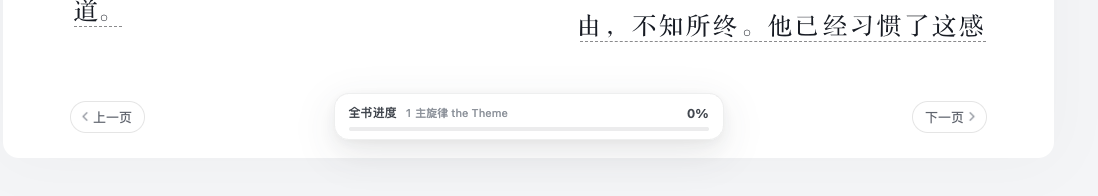
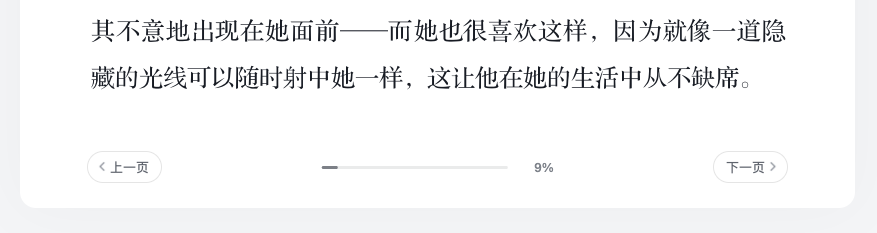
feat: 极简化阅读进度显示

diff --git a/contents/weread-progress.css b/contents/weread-progress.css
@@ -1,31 +1,25 @@
 .wrp-root {
-  --wrp-surface: rgba(255, 255, 255, 0.82);
-  --wrp-border: rgba(28, 35, 43, 0.09);
-  --wrp-text: #202832;
-  --wrp-muted: #7c858f;
-  --wrp-track: rgba(32, 40, 50, 0.1);
+  --wrp-text: #606873;
+  --wrp-track: rgba(48, 56, 66, 0.13);
   --wrp-accent: #5d646e;
 
   position: fixed;
   z-index: 2147483646;
   left: 50%;
   bottom: var(--wrp-bottom, 18px);
-  display: block;
-  width: clamp(270px, 30vw, 390px);
-  min-height: 47px;
+  display: flex;
+  align-items: center;
+  gap: 10px;
+  width: clamp(210px, 22vw, 300px);
+  min-height: 28px;
   box-sizing: border-box;
-  padding: 4px 14px 11px;
-  overflow: hidden;
+  padding: 0;
+  overflow: visible;
   color: var(--wrp-text);
-  background: var(--wrp-surface);
-  border: 1px solid var(--wrp-border);
-  border-radius: 15px;
-  box-shadow:
-    0 12px 34px rgba(25, 31, 39, 0.13),
-    0 2px 8px rgba(25, 31, 39, 0.05),
-    inset 0 1px 0 rgba(255, 255, 255, 0.45);
-  backdrop-filter: blur(18px) saturate(145%);
-  -webkit-backdrop-filter: blur(18px) saturate(145%);
+  background: transparent;
+  border: 0;
+  border-radius: 0;
+  box-shadow: none;
   appearance: none;
   -webkit-appearance: none;
   outline: none;
@@ -44,73 +38,36 @@
   transition:
     bottom 180ms ease-out,
     opacity 220ms ease,
-    transform 280ms cubic-bezier(0.2, 0.8, 0.2, 1),
-    box-shadow 220ms ease,
-    background-color 220ms ease;
+    transform 280ms cubic-bezier(0.2, 0.8, 0.2, 1);
 }
 
 .wrp-root[data-position-ready="true"] {
   visibility: visible;
   pointer-events: auto;
-  opacity: 0.88;
+  opacity: 0.82;
   transform: translateX(-50%);
 }
 
 .wrp-root[data-position-ready="true"]:hover,
 .wrp-root[data-position-ready="true"]:focus-visible {
   opacity: 1;
-  transform: translateX(-50%) translateY(-2px);
-  box-shadow:
-    0 16px 42px rgba(25, 31, 39, 0.17),
-    0 3px 10px rgba(25, 31, 39, 0.07),
-    inset 0 1px 0 rgba(255, 255, 255, 0.5);
-}
-
-.wrp-topline {
-  display: flex;
-  align-items: center;
-  min-width: 0;
-  height: 20px;
-  line-height: 20px;
-}
-
-.wrp-label {
-  flex: 0 0 auto;
-  margin-right: 8px;
-  color: var(--wrp-text);
-  font-size: 12px;
-  font-weight: 620;
-  letter-spacing: 0.01em;
-}
-
-.wrp-chapter {
-  min-width: 0;
-  flex: 1 1 auto;
-  overflow: hidden;
-  color: var(--wrp-muted);
-  font-size: 11px;
-  font-weight: 450;
-  white-space: nowrap;
-  text-overflow: ellipsis;
+  transform: translateX(-50%) translateY(-1px);
 }
 
 .wrp-value {
   flex: 0 0 auto;
-  min-width: 42px;
-  margin-left: 10px;
+  min-width: 36px;
   color: var(--wrp-text);
-  font-size: 13px;
-  font-weight: 680;
+  font-size: 12px;
+  font-weight: 620;
   letter-spacing: -0.01em;
   text-align: right;
 }
 
 .wrp-track {
-  position: absolute;
-  right: 14px;
-  bottom: 8px;
-  left: 14px;
-  height: 4px;
+  flex: 1 1 auto;
+  min-width: 0;
+  height: 3px;
   overflow: hidden;
   background: var(--wrp-track);
   border-radius: 999px;
@@ -122,26 +79,18 @@
   height: 100%;
   background: var(--wrp-accent);
   border-radius: inherit;
-  box-shadow: 0 0 7px rgba(93, 100, 110, 0.22);
   transition: width 420ms cubic-bezier(0.2, 0.8, 0.2, 1);
 }
 
 .wrp-root[data-theme="dark"] {
-  --wrp-surface: rgba(31, 35, 41, 0.82);
-  --wrp-border: rgba(255, 255, 255, 0.1);
-  --wrp-text: rgba(255, 255, 255, 0.92);
-  --wrp-muted: rgba(255, 255, 255, 0.53);
-  --wrp-track: rgba(255, 255, 255, 0.12);
-  --wrp-accent: #858c96;
-  box-shadow:
-    0 14px 38px rgba(0, 0, 0, 0.32),
-    0 2px 8px rgba(0, 0, 0, 0.18),
-    inset 0 1px 0 rgba(255, 255, 255, 0.06);
+  --wrp-text: rgba(255, 255, 255, 0.7);
+  --wrp-track: rgba(255, 255, 255, 0.14);
+  --wrp-accent: rgba(255, 255, 255, 0.66);
 }
 
 @media (max-width: 700px) {
   .wrp-root {
-    width: min(84vw, 340px);
+    width: min(72vw, 280px);
   }
 }
 

diff --git a/contents/weread-progress.tsx b/contents/weread-progress.tsx
@@ -17,7 +17,6 @@ export const getStyle: PlasmoGetStyle = () => {
 
 type ReaderState = {
   progress: number
-  chapter: string
   dark: boolean
 }
 
@@ -64,17 +63,6 @@ function readProgress(): number | null {
   }
 
   return null
-}
-
-function readChapterTitle(): string {
-  const selectedTitle = document.querySelector(
-    ".readerCatalog_list_item_selected .readerCatalog_list_item_title_text"
-  )?.textContent
-  const headerTitle = document.querySelector(
-    ".renderTargetPageInfo_header_chapterTitle"
-  )?.textContent
-
-  return (selectedTitle || headerTitle || "当前章节").trim()
 }
 
 function readDarkTheme(): boolean {
@@ -139,14 +127,12 @@ function ProgressOverlay() {
     if (progress !== null) {
       const nextState = {
         progress,
-        chapter: readChapterTitle(),
         dark: readDarkTheme()
       }
       setReader((current) => {
         if (
           current &&
           current.progress === nextState.progress &&
-          current.chapter === nextState.chapter &&
           current.dark === nextState.dark
         ) {
           return current
@@ -235,17 +221,13 @@ function ProgressOverlay() {
       data-theme={reader.dark ? "dark" : "light"}
       data-position-ready={bottom === null ? "false" : "true"}
       style={style}
-      title={`${reader.chapter} · 已读 ${displayValue}%（点击打开目录）`}
-      aria-label={`全书阅读进度 ${displayValue}%，${reader.chapter}，点击打开目录`}
+      title={`全书进度 ${displayValue}%（点击打开目录）`}
+      aria-label={`全书阅读进度 ${displayValue}%，点击打开目录`}
       onClick={openCatalog}>
-      <span className="wrp-topline">
-        <span className="wrp-label">全书进度</span>
-        <span className="wrp-chapter">{reader.chapter}</span>
-        <strong className="wrp-value">{displayValue}%</strong>
-      </span>
       <span className="wrp-track" aria-hidden="true">
         <span className="wrp-fill" />
       </span>
+      <strong className="wrp-value">{displayValue}%</strong>
     </button>
   )
 }

diff --git a/README.md b/README.md
@@ -4,7 +4,7 @@
 [![Manifest V3](https://img.shields.io/badge/Manifest-V3-5d646e?style=flat-square)](https://developer.chrome.com/docs/extensions/develop/migrate/what-is-mv3)
 [![License: CC BY-NC 4.0](https://img.shields.io/badge/License-CC_BY--NC_4.0-5d646e?style=flat-square)](LICENSE)
 
-在微信读书网页版的“上一页 / 下一页”按钮之间，显示当前章节和真实的全书阅读进度。无需打开目录，也不根据页码猜测进度。
+在微信读书网页版的“上一页 / 下一页”按钮之间，以一条极简进度线显示真实的全书阅读进度。无需打开目录，也不根据页码猜测进度。
 
 这是一个基于 [Plasmo](https://www.plasmo.com/) 的 Manifest V3 浏览器扩展，推荐用于 Arc，也适用于 Chrome、Edge、Brave 等 Chromium 浏览器。
 
@@ -13,7 +13,7 @@
 ## 功能
 
 - 从微信读书页面已有的目录/笔记数据中读取真实的全书进度
-- 自动显示当前章节、百分比和深灰色进度条
+- 以透明、无边框的单行布局显示百分比和深灰色进度条
 - 自动对齐“上一页 / 下一页”按钮，并随窗口尺寸调整位置
 - 适配微信读书的浅色与深色阅读主题
 - 翻页、切换章节或返回页面后自动更新
